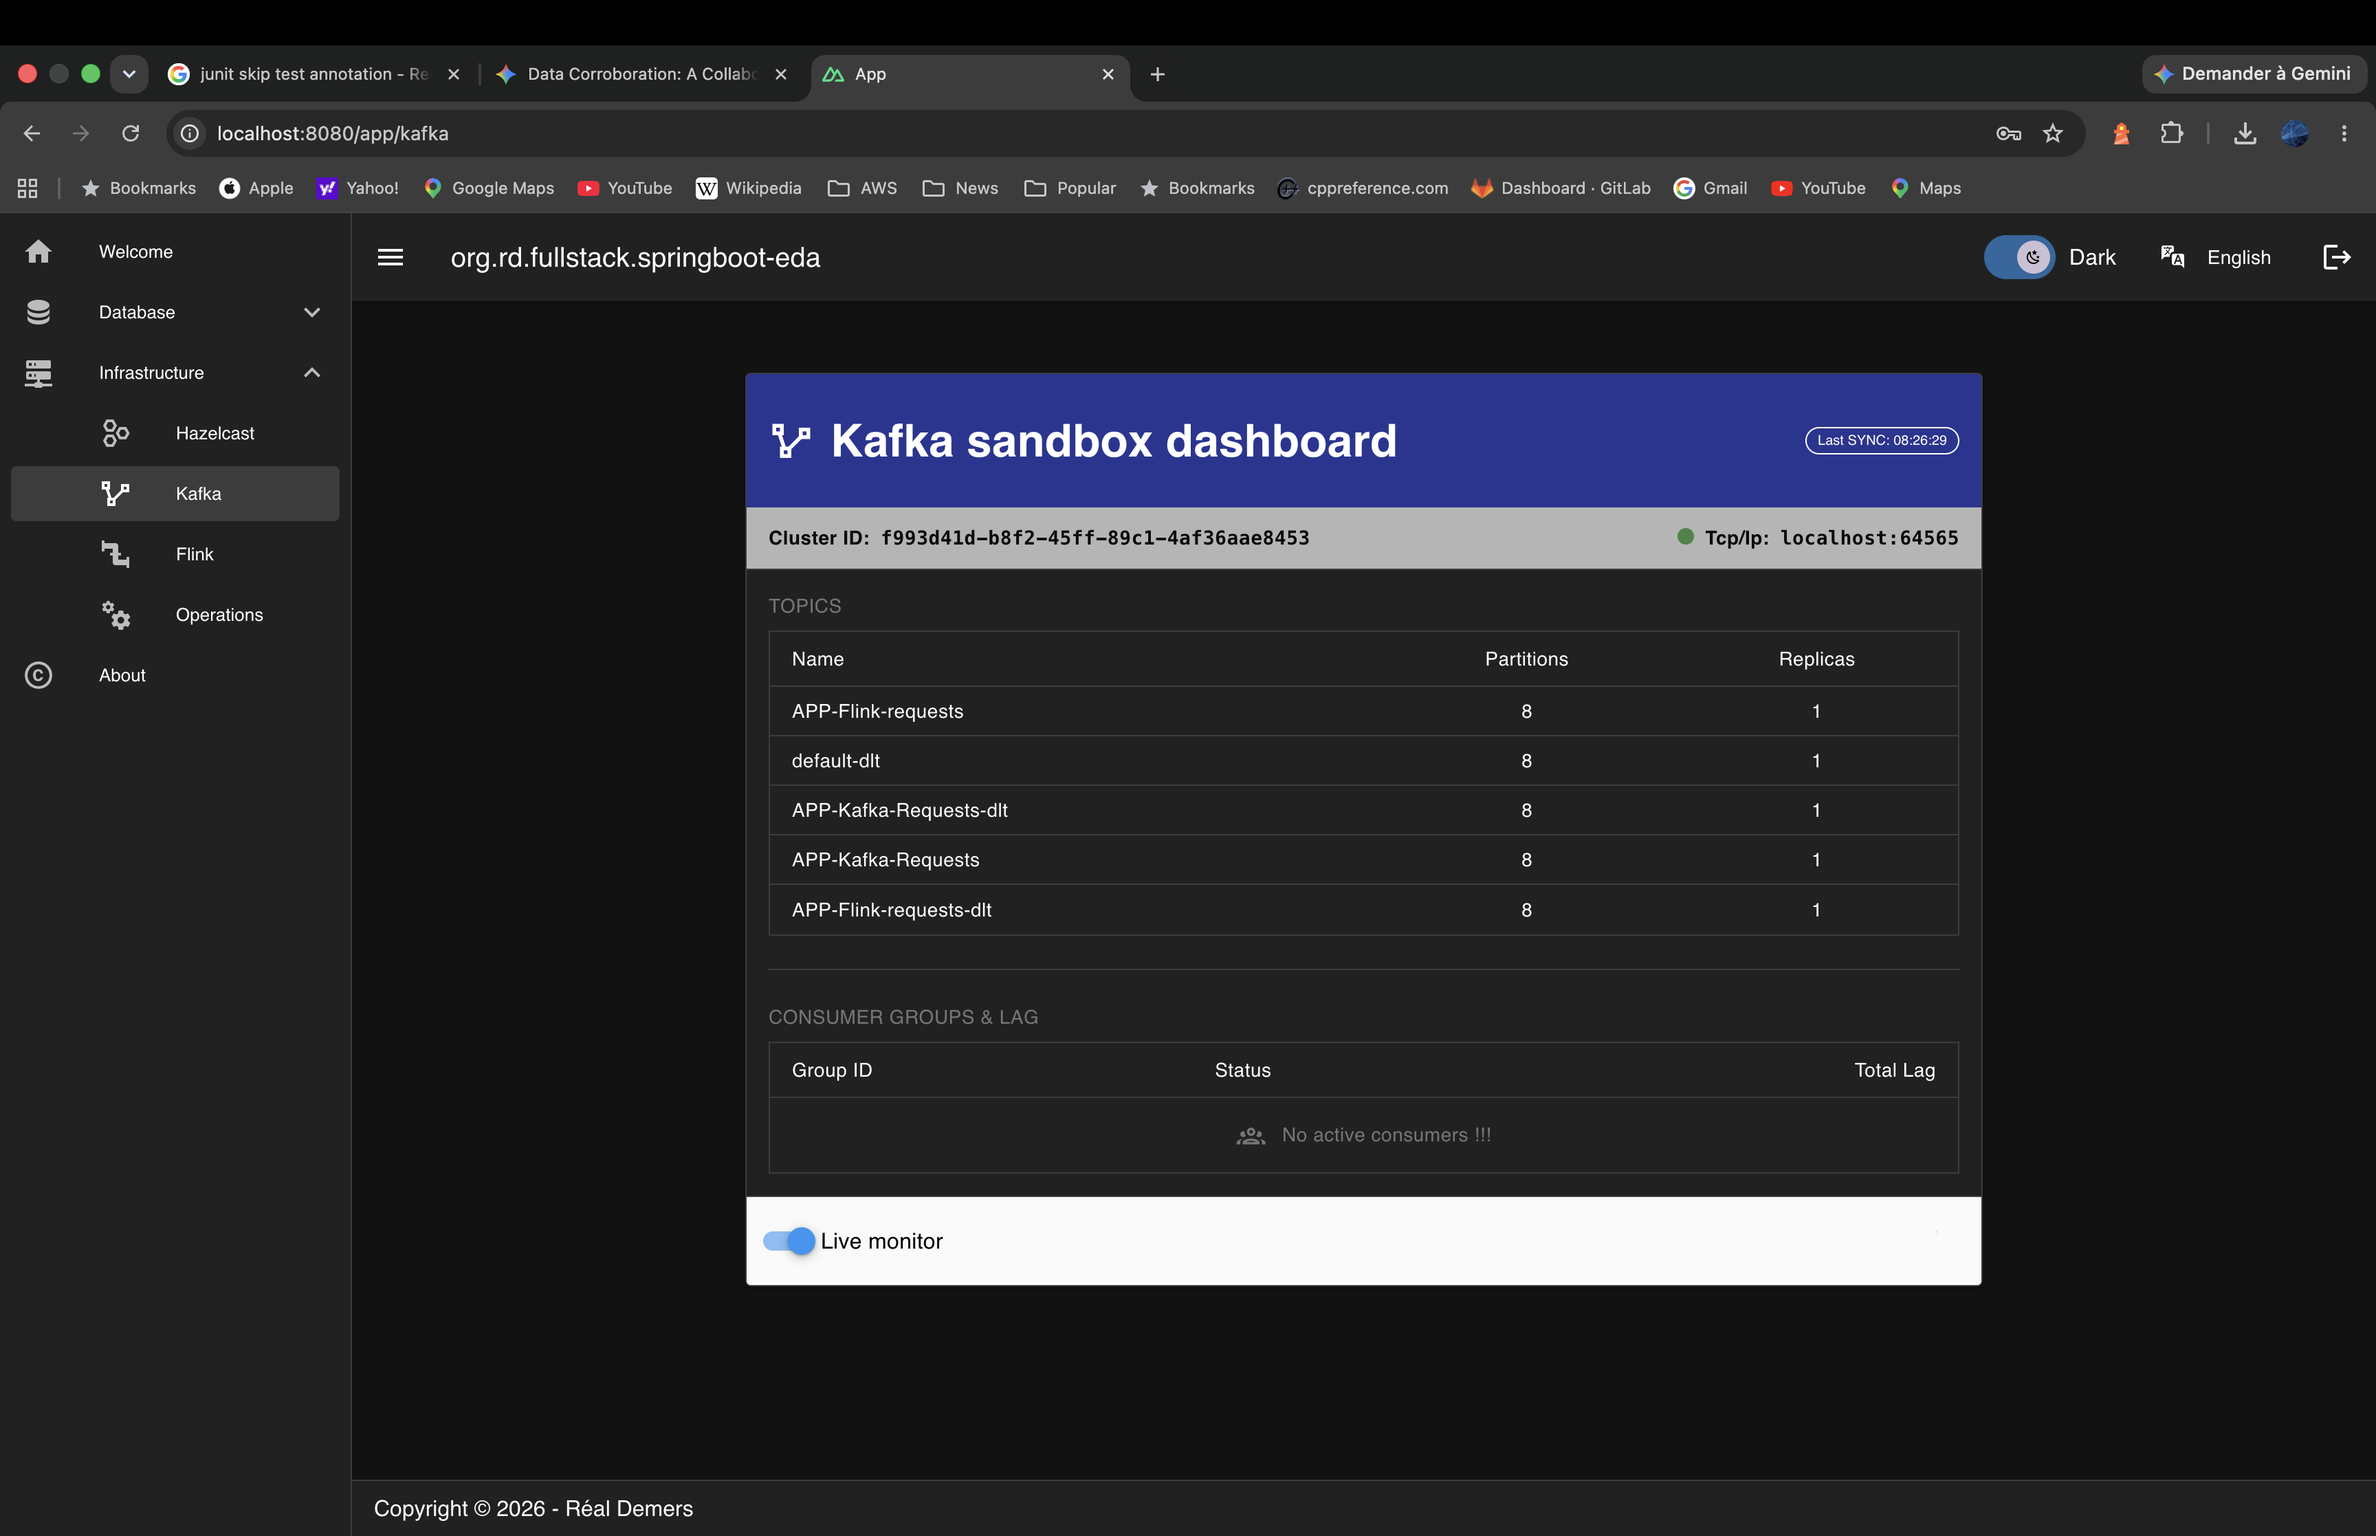
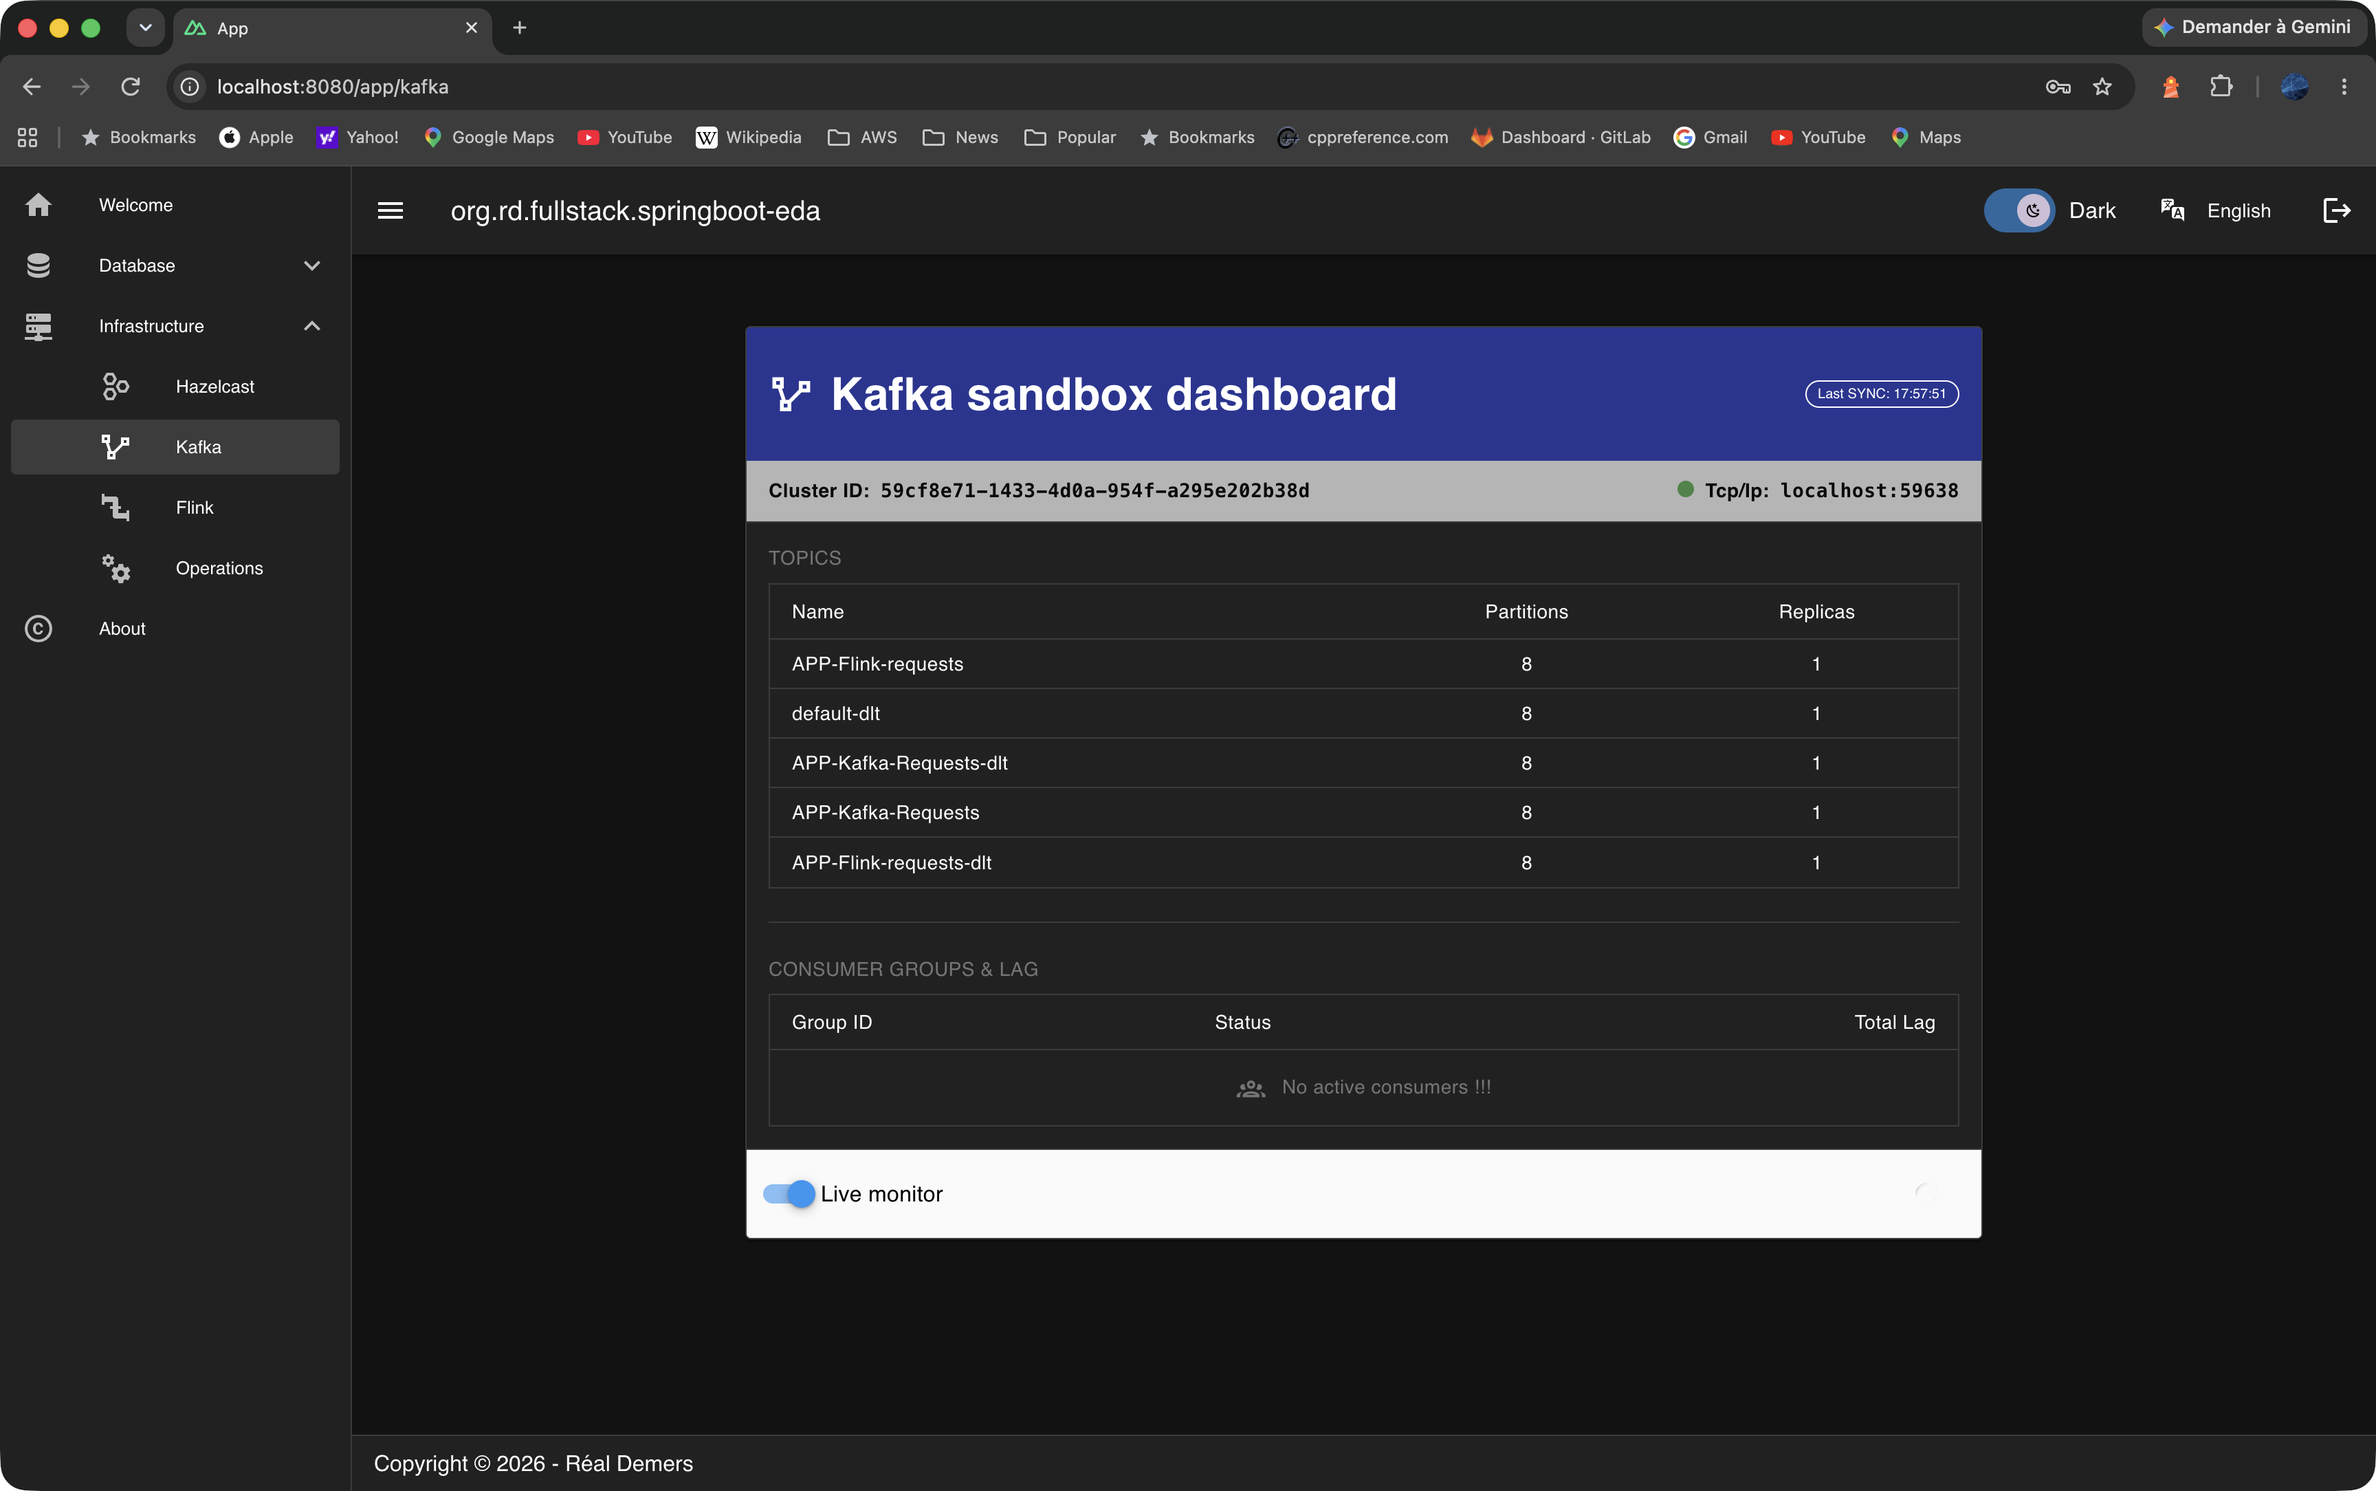
Fix a bug in test and some cleanup documentation. Signed-off-by: Réal Demers <real.demers@gmail.com>

diff --git a/src/main/java/org/rd/fullstack/springbooteda/util/kafka/KafkaSandbox.java b/src/main/java/org/rd/fullstack/springbooteda/util/kafka/KafkaSandbox.java
@@ -65,7 +65,6 @@ import org.springframework.util.backoff.FixedBackOff;
 import java.time.Duration;
 import java.util.ArrayList;
 import java.util.Collection;
-import java.util.EnumSet;
 import java.util.HashMap;
 import java.util.List;
 import java.util.Map;
@@ -678,11 +677,11 @@ public class KafkaSandbox extends AbstractTopicHandler<KafkaSandbox> implements 
         final String dltName = cfg.dltName().isBlank() ? 
             KafkaConstants.CST_DEFAULT_DLT : cfg.dltName();
 
-        if (dltName.equals(KafkaConstants.CST_DEFAULT_DLT)) {
-            // Make sure we have at least the default DLT topic.
-            if (!getTopicRegistry().containsKey(KafkaConstants.CST_DEFAULT_DLT))
-                addTopic(KafkaConstants.CST_DEFAULT_DLT);
-        }
+        //if (dltName.equals(KafkaConstants.CST_DEFAULT_DLT)) {
+        //    // Make sure we have at least the default DLT topic.
+        //    if (!getTopicRegistry().containsKey(KafkaConstants.CST_DEFAULT_DLT))
+        //        addTopic(KafkaConstants.CST_DEFAULT_DLT);
+        //}
 
         if (topicName.equals(dltName))
             throw new IllegalStateException("Source topic and DLT must be different.");

diff --git a/src/main/java/org/rd/fullstack/springbooteda/config/KafkaConfig.java b/src/main/java/org/rd/fullstack/springbooteda/config/KafkaConfig.java
@@ -67,12 +67,11 @@ public class KafkaConfig {
                       KafkaConstants.CST_TOPIC_KAFKA_REQ+KafkaConstants.CST_TOPIC_DLT_POSTFIX, 
                       KafkaConstants.CST_NBR_TOPICS_PARTITIONS, 
                       (short) 1) // Replicas must be 1 for the sandbox.
- 
             .addTopic(KafkaConstants.CST_TOPIC_FLINK_REQ,
                       KafkaConstants.CST_TOPIC_FLINK_REQ+KafkaConstants.CST_TOPIC_DLT_POSTFIX,
                       KafkaConstants.CST_NBR_TOPICS_PARTITIONS, 
-                      (short) 1) // Replicas must be 1 for the sandbox. 
-
+                      (short) 1) // Replicas must be 1 for the sandbox.
+            .addTopic(KafkaConstants.CST_DEFAULT_DLT)
             .concurrency(concurrency)
             .autoStart(kEnabled)
             .build();

diff --git a/src/test/java/org/rd/fullstack/springbooteda/T2700_KafkaExternal_UT_Tests.java b/src/test/java/org/rd/fullstack/springbooteda/T2700_KafkaExternal_UT_Tests.java
@@ -168,7 +168,7 @@ public class T2700_KafkaExternal_UT_Tests {
         externalSandbox.addTopic(CST_TOPIC_INTEROP, 10, (short) 1); // already exists (live) -> skip-create
 
         bSuccess = new AtomicBoolean(false);
-        kafkaSandbox.setupMessageListener(CST_TOPIC_INTEROP, (record, ack) -> {
+        externalSandbox.setupMessageListener(CST_TOPIC_INTEROP, (record, ack) -> {
             if (!smartLifecycleService.isRunning())
                 return;
 

diff --git a/doc/fr/verification_donnees.md b/doc/fr/verification_donnees.md
@@ -235,13 +235,13 @@ flowchart LR
 Le `payload` du journal d'un événement `EXECUTED` contient le mouvement qu'il a provoqué, sous forme d'une paire de *jambes* (une pour le client, une pour l'inventaire). L'`operation` est signée :
 
 ```json
-{"movement":{
-   "client":   {"id": 7, "begin": 10.00, "operation": -5.00, "end": 5.00},
-   "inventory":{"id": 3, "begin": 10,    "operation": -2,    "end": 8}},
- "batchId": "b-2"}
+{
+  "movement":{
+     "client":   { "id": 7, "begin": 10.00, "operation": -5.00, "end": 5.00},
+     "inventory":{ "id": 3, "begin": 10,    "operation": -2,    "end": 8}
+  }
+}
 ```
-
-`batchId` est le lot qui a **exécuté** le mouvement. Ce n'est pas le `batchId` de la ligne de journal : un rejeu réutilise la ligne de la première livraison, qui ne change donc jamais.
 
 La conciliation exécute cinq étapes, chacune rapportée sous son propre `Step` :
 

diff --git a/doc/data_corroboration.md b/doc/data_corroboration.md
@@ -235,13 +235,13 @@ flowchart LR
 The journal `payload` of an `EXECUTED` event holds the movement it caused, as a pair of *legs* (one for the client, one for the inventory). The `operation` is signed:
 
 ```json
-{"movement":{
-   "client":   {"id": 7, "begin": 10.00, "operation": -5.00, "end": 5.00},
-   "inventory":{"id": 3, "begin": 10,    "operation": -2,    "end": 8}},
- "batchId": "b-2"}
+{
+  "movement":{
+     "client":   { "id": 7, "begin": 10.00, "operation": -5.00, "end": 5.00},
+     "inventory":{ "id": 3, "begin": 10,    "operation": -2,    "end": 8}
+  }
+}
 ```
-
-`batchId` is the batch that **executed** the movement. It is not the batch-id of the journal row: a replay reuses the row of the first delivery, so that one never changes.
 
 The conciliation runs five steps, each reported under its own `Step`:
 
